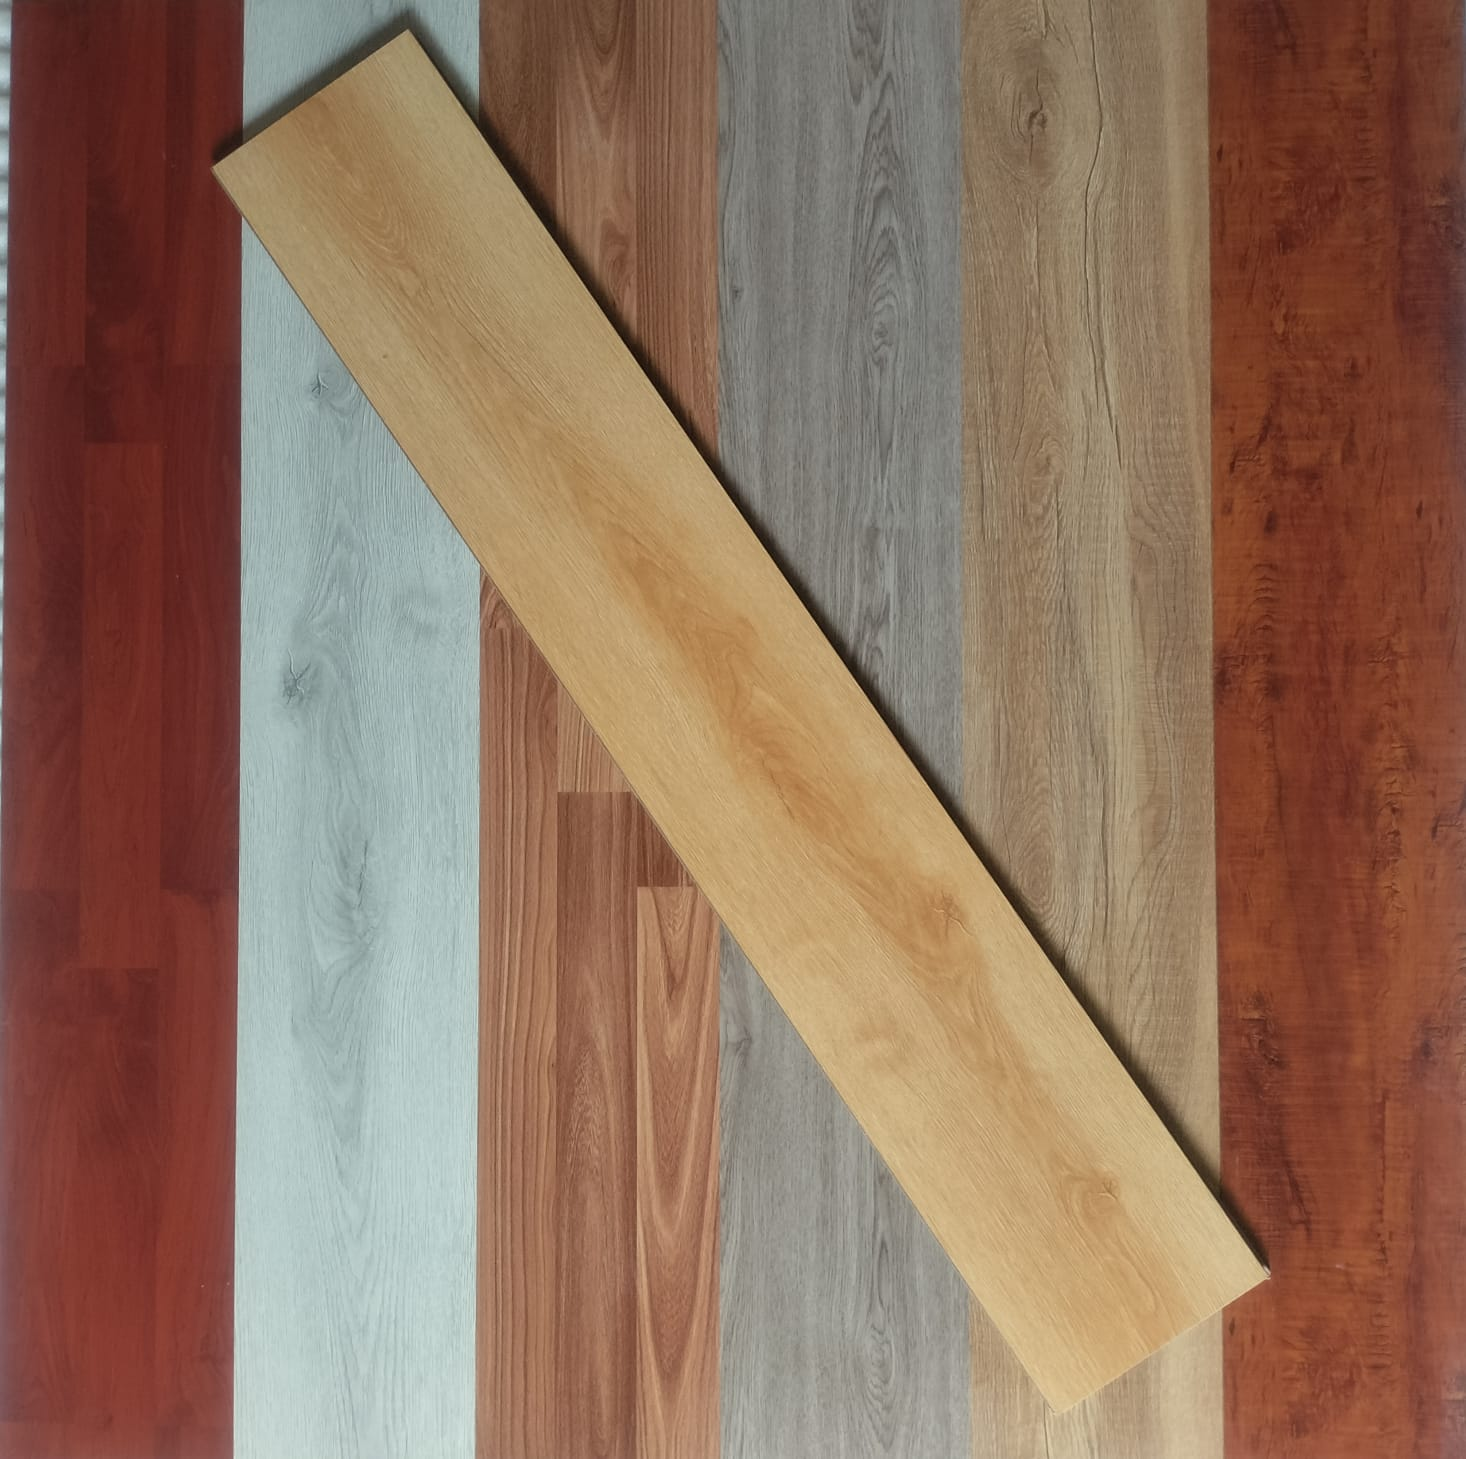
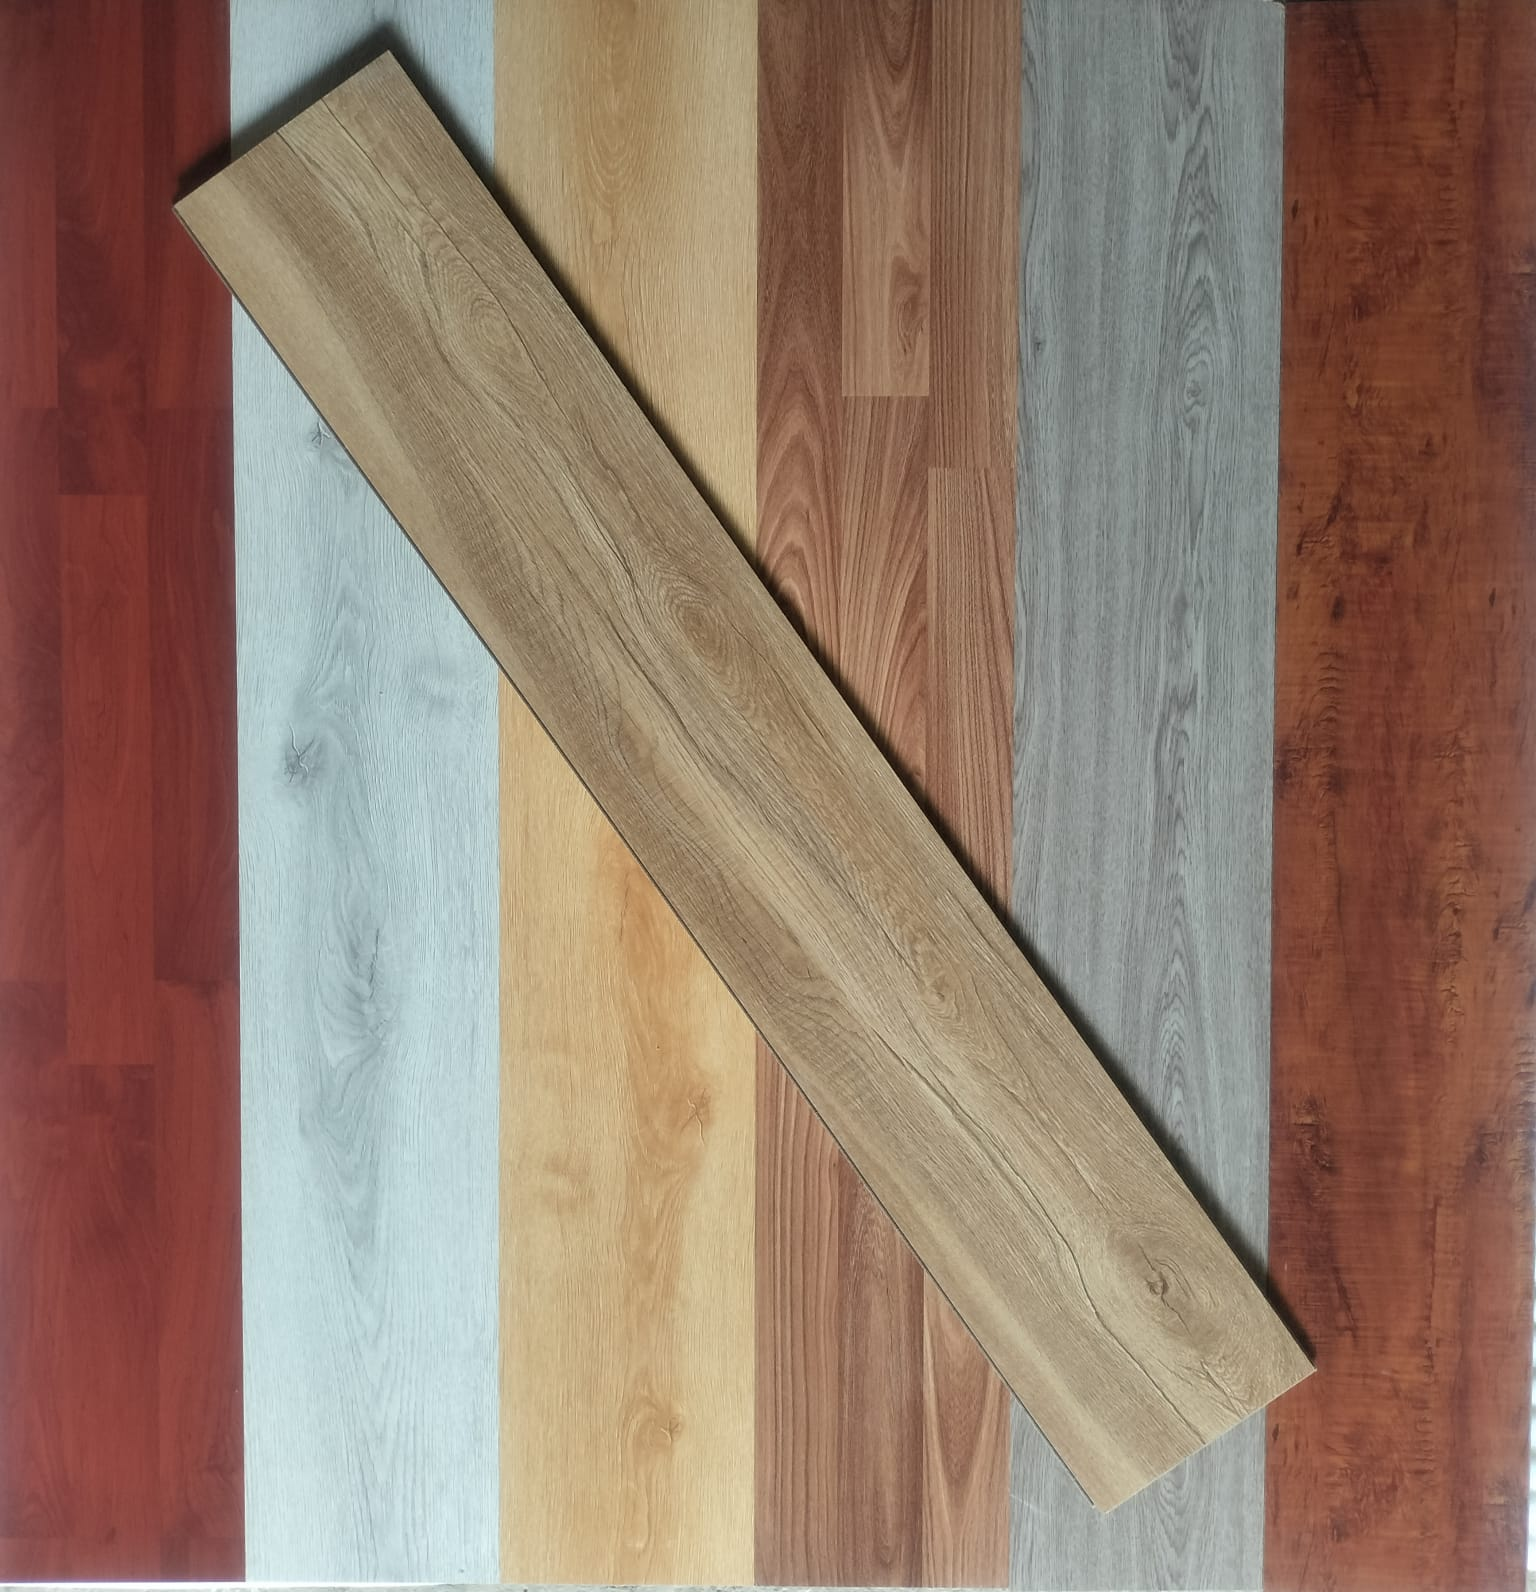
fix image name

diff --git a/src/data/products.ts b/src/data/products.ts
@@ -32,8 +32,8 @@ import mediaWallImg from "@/assets/media-wall.jpeg";
 import germanWoodenImg from "@/assets/german-wooden-flooring.jpeg";
 import turkishWoodenImg from "@/assets/turkish-wooden-flooring.jpeg";
 import chineseWoodenImg from "@/assets/chinese-wooden-flooring.jpeg";
-import chineseWoodenImg2 from "@/assets/wf-chinese/sb-1005.jpeg";
-import chineseWoodenImg3 from "@/assets/wf-chinese/sb-1006.jpeg";
+import chineseWoodenImg2 from "@/assets/wf-chinese/sb-1001.jpeg";
+import chineseWoodenImg3 from "@/assets/wf-chinese/sb-1005.jpeg";
 import pustonepanelsImg from "@/assets/pu-stone-panel.jpeg";
 import rollerblindsImg from "@/assets/roller-blind.jpeg";
 export type Category = {
